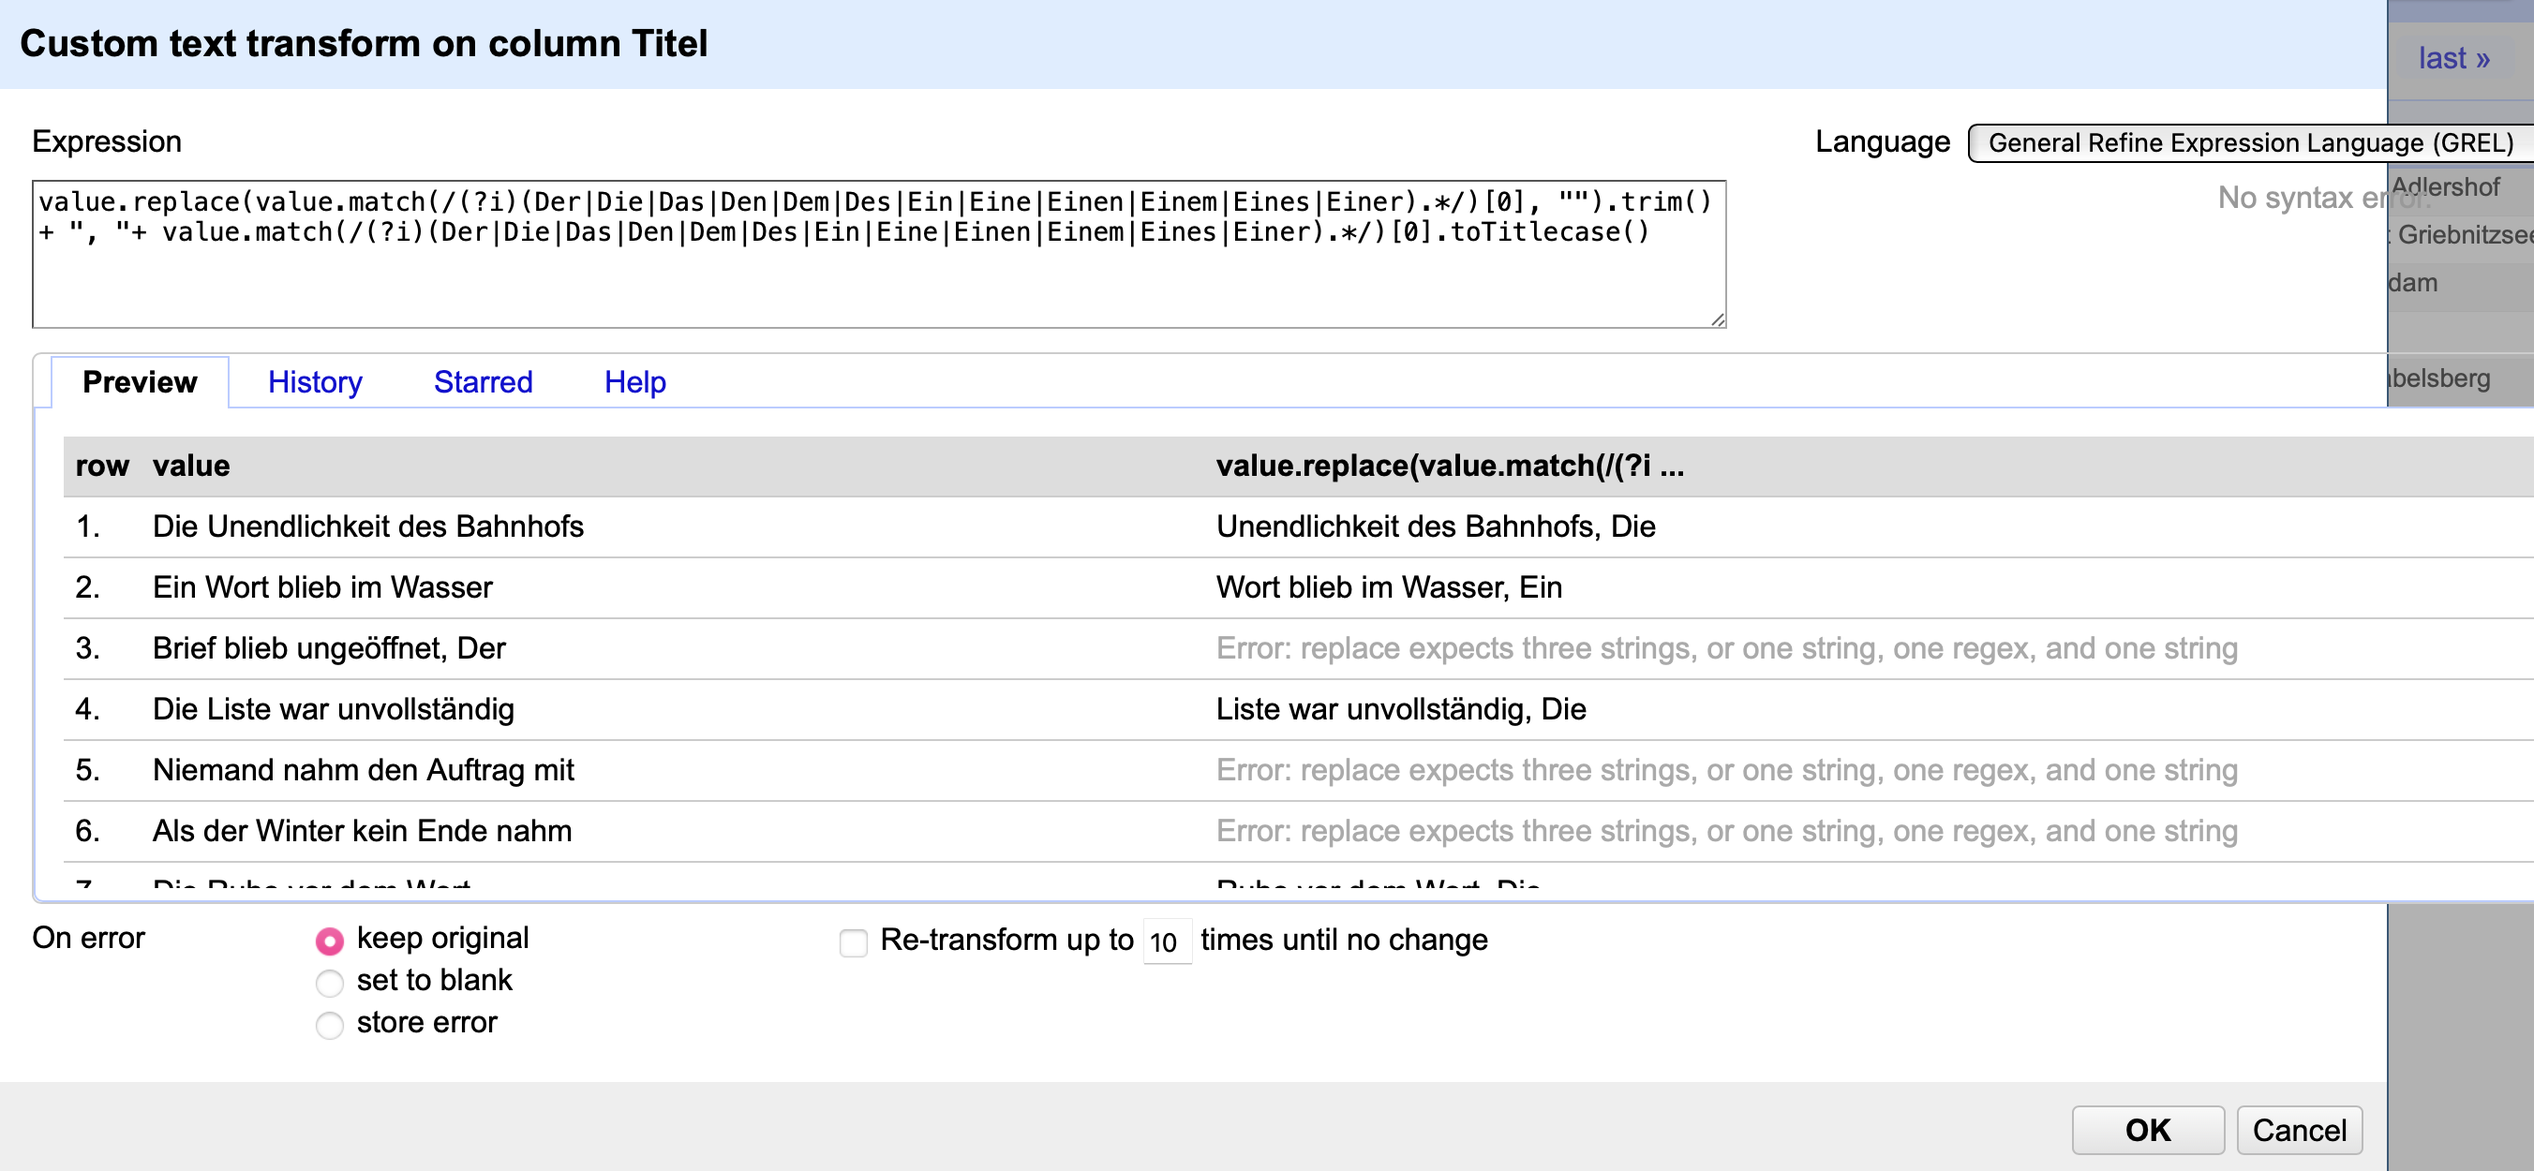
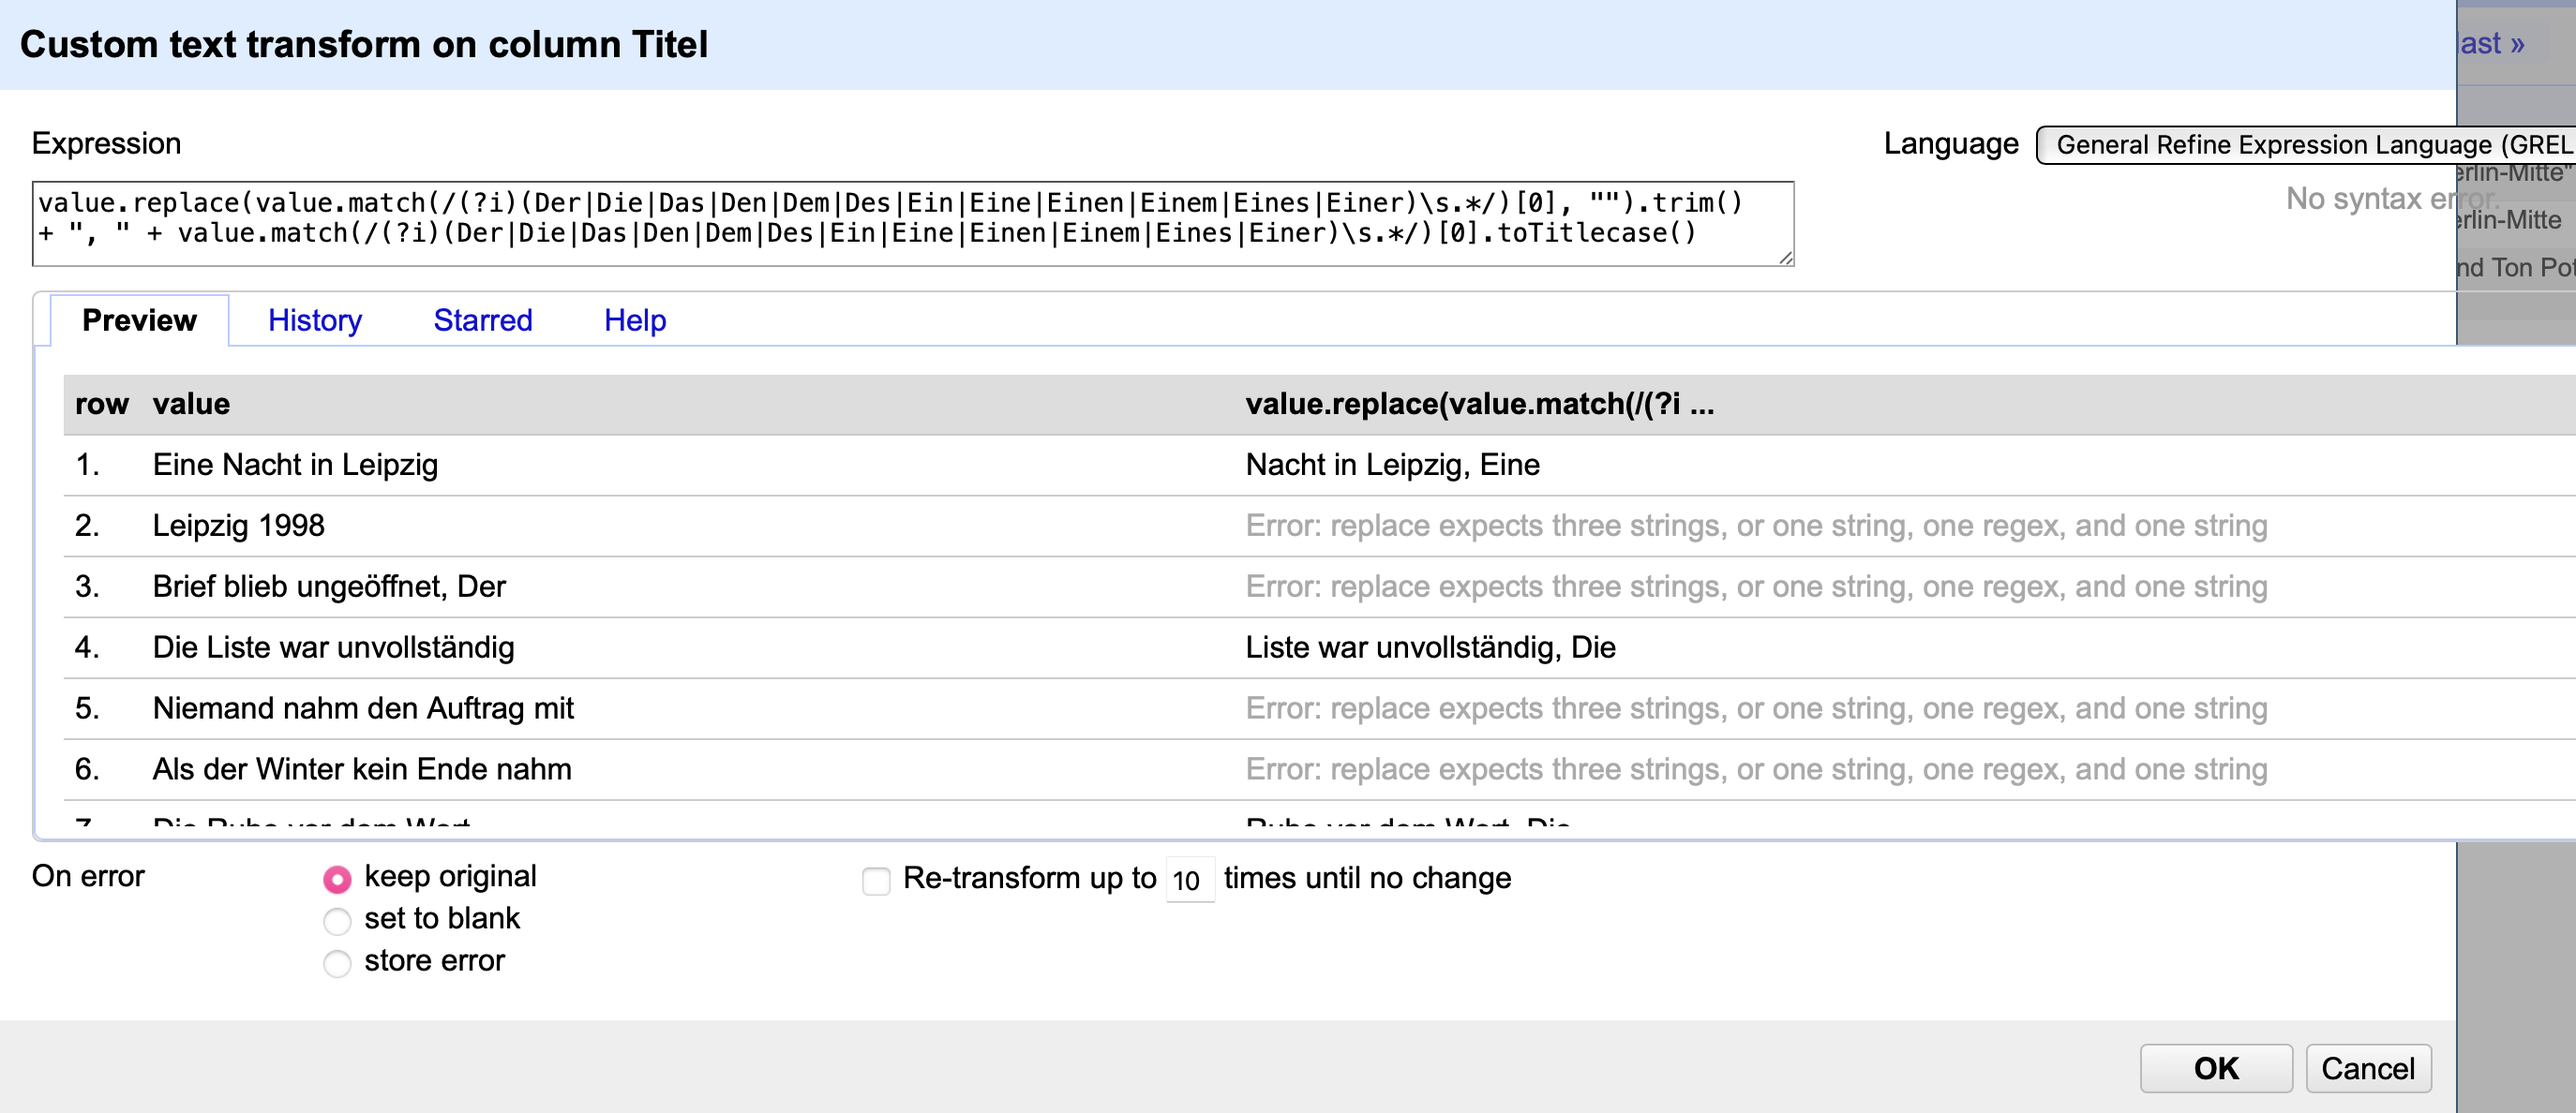
change asset, fix article code

Changed region(s): [[0.0, 0.0, 1.0, 1.0]]

diff --git a/bereinigung/openRefine/5.2_titel.md b/bereinigung/openRefine/5.2_titel.md
@@ -218,12 +218,12 @@ Angesichts der relativen Komplexität des zuvor verwendeten Codes ist ein solche
 Nun müssen diese Artikel in die Erfassungsklammern des zuvor verwendeten Codes eingesetzt werden:
 
 ````javascript
-value.replace(value.match(/(?i)(Der|Die|Das|Den|Dem|Des|Ein|Eine|Einen|Einem|Eines|Einer).*/)[0], "").trim() 
-+ ", "+ value.match(/(?i)(Der|Die|Das|Den|Dem|Des|Ein|Eine|Einen|Einem|Eines|Einer).*/)[0].toTitlecase()
+value.replace(value.match(/(?i)(Der|Die|Das|Den|Dem|Des|Ein|Eine|Einen|Einem|Eines|Einer)\s.*/)[0], "").trim() 
++ ", " + value.match(/(?i)(Der|Die|Das|Den|Dem|Des|Ein|Eine|Einen|Einem|Eines|Einer)\s.*/)[0].toTitlecase()
 ````
 Können Sie feststellen, welche weiteren Änderungen vorgenommen wurden?
 
-Den Erfassungsklammern wurde die Zeichenfolge `(?i)` vorangestellt. Dadurch wird das match *case-insensitive*: Groß- und Kleinschreibung werden bei der Suche nach den Artikeln nicht beachtet. Zudem wurde die Methode `trim` am Ende der ersten Zeile des Codes ergänzt. Diese entfernt Leerzeichen am Anfang und Ende des Titel – somit muss nicht jedem Artikel noch ein `\s` hinzugefügt werden.
+Den Erfassungsklammern wurde die Zeichenfolge `(?i)` vorangestellt. Dadurch wird das match *case-insensitive*: Groß- und Kleinschreibung werden bei der Suche nach den Artikeln nicht beachtet. Das Leerzeiche `\s`wurde hinter die Erfassungsklammer verschoben – somit muss nicht jedem Artikel noch ein `\s` hinzugefügt werden. Zudem wurde die Methode `trim` am Ende der ersten Zeile des Codes ergänzt. Diese entfernt Leerzeichen am Anfang und Ende des Titel.
 
 Der Code kann nun angewendet werden:
 
@@ -232,10 +232,11 @@ Der Code kann nun angewendet werden:
 align: center
 width: 100%
 name: error_settings
-alt: Die Anwendung des Regex-Codes value.replace(value.match(/(?i)(Der|Die|Das|Den|Dem|Des|Ein|Eine|Einen|Einem|Eines|Einer).*/)[0], "").trim() 
-+ ", "+ value.match(/(?i)(Der|Die|Das|Den|Dem|Des|Ein|Eine|Einen|Einem|Eines|Einer).*/)[0].toTitlecase()
+alt: Die Anwendung des Regex-Codes value.replace(value.match(/(?i)(Der|Die|Das|Den|Dem|Des|Ein|Eine|Einen|Einem|Eines|Einer)\s.*/)[0], "").trim() 
++ ", " + value.match(/(?i)(Der|Die|Das|Den|Dem|Des|Ein|Eine|Einen|Einem|Eines|Einer)\s.*/)[0].toTitlecase()
 ---
-Die Anwendung des *Regex*-Codes `value.replace(value.match(/(?i)(Der|Die|Das|Den|Dem|Des|Ein|Eine|Einen|Einem|Eines|Einer).*/)[0], "").trim() + ", "+ value.match(/(?i)(Der|Die|Das|Den|Dem|Des|Ein|Eine|Einen|Einem|Eines|Einer).*/)[0].toTitlecase()`
+Die Anwendung des *Regex*-Codes `value.replace(value.match(/(?i)(Der|Die|Das|Den|Dem|Des|Ein|Eine|Einen|Einem|Eines|Einer)\s.*/)[0], "").trim() 
++ ", " + value.match(/(?i)(Der|Die|Das|Den|Dem|Des|Ein|Eine|Einen|Einem|Eines|Einer)\s.*/)[0].toTitlecase()`
 ```
 
 
